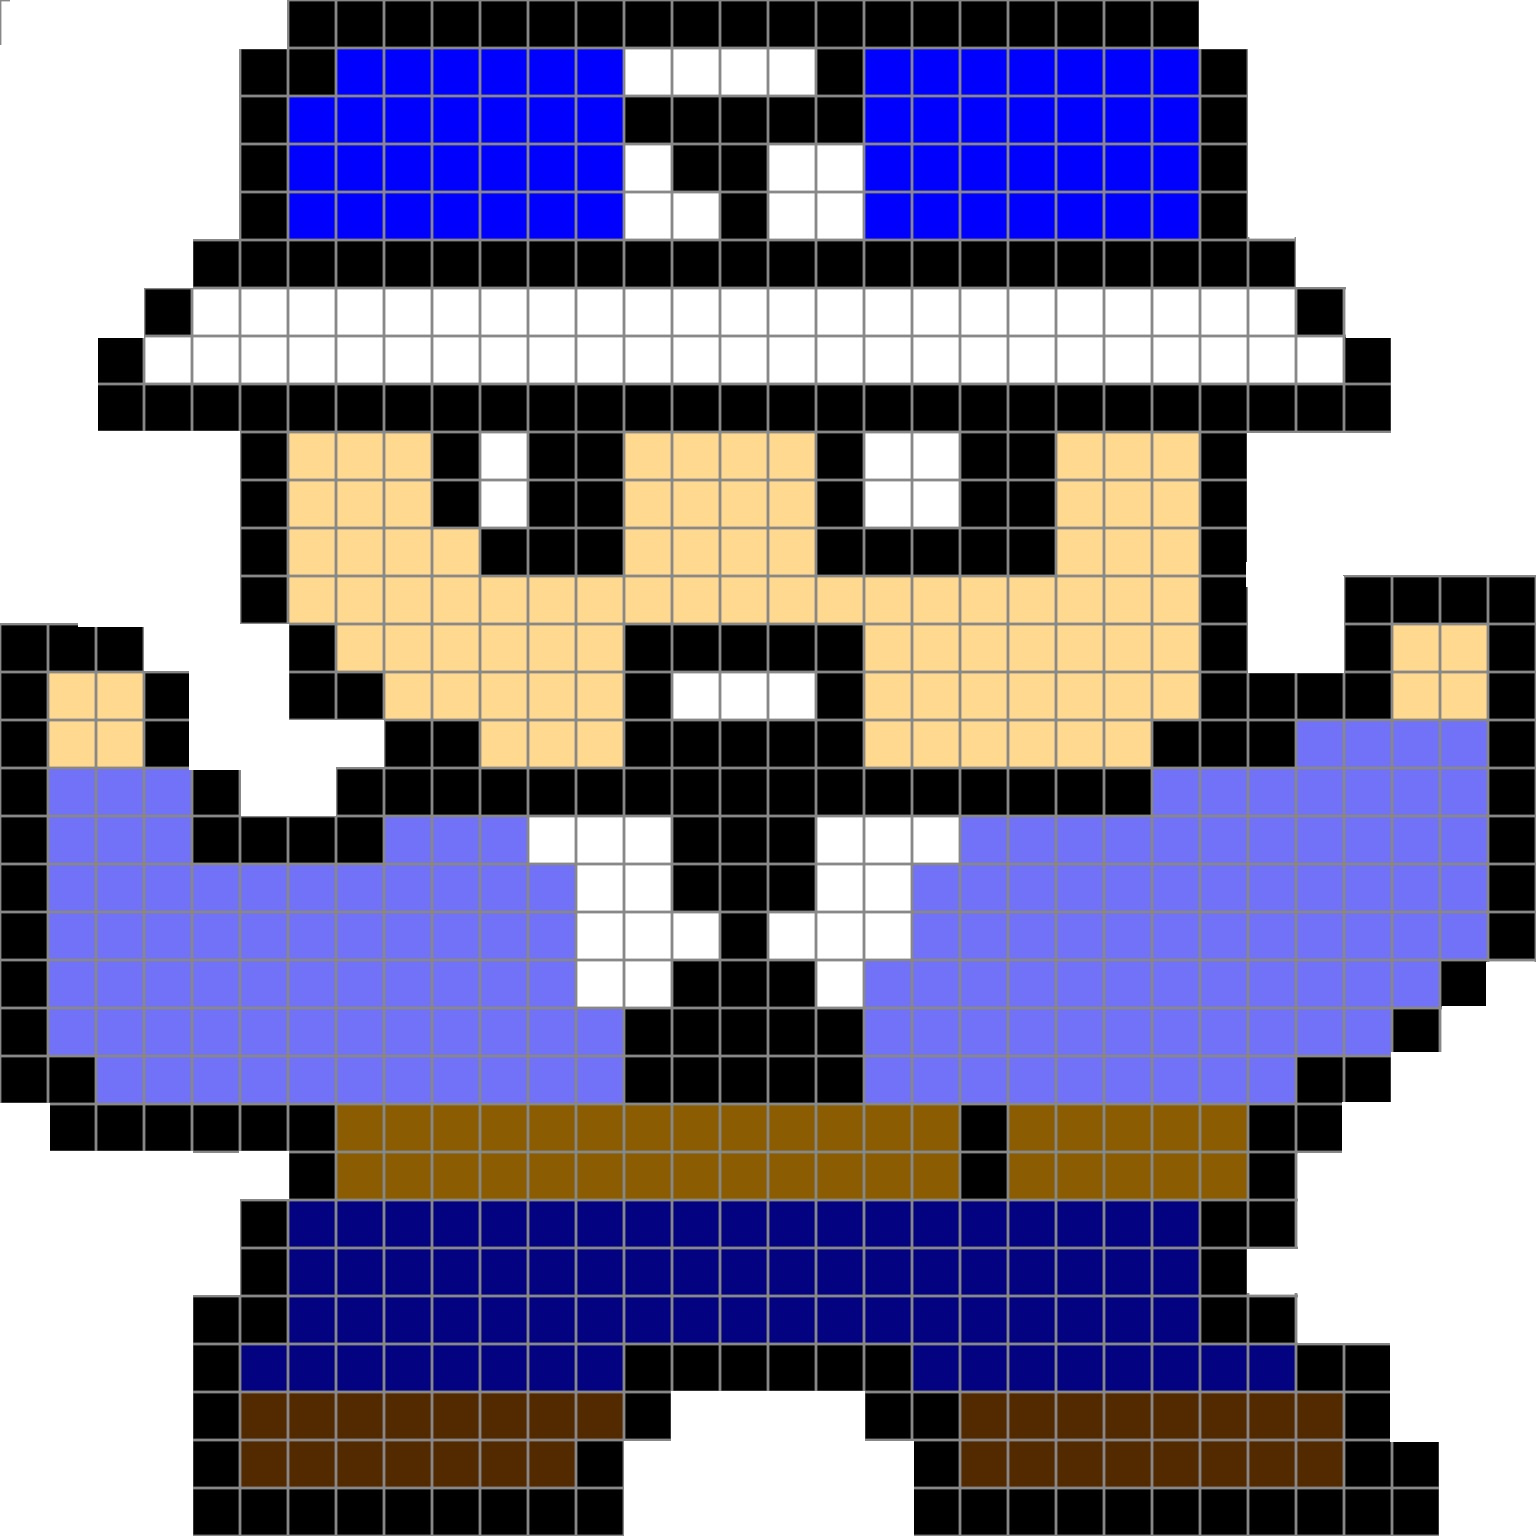
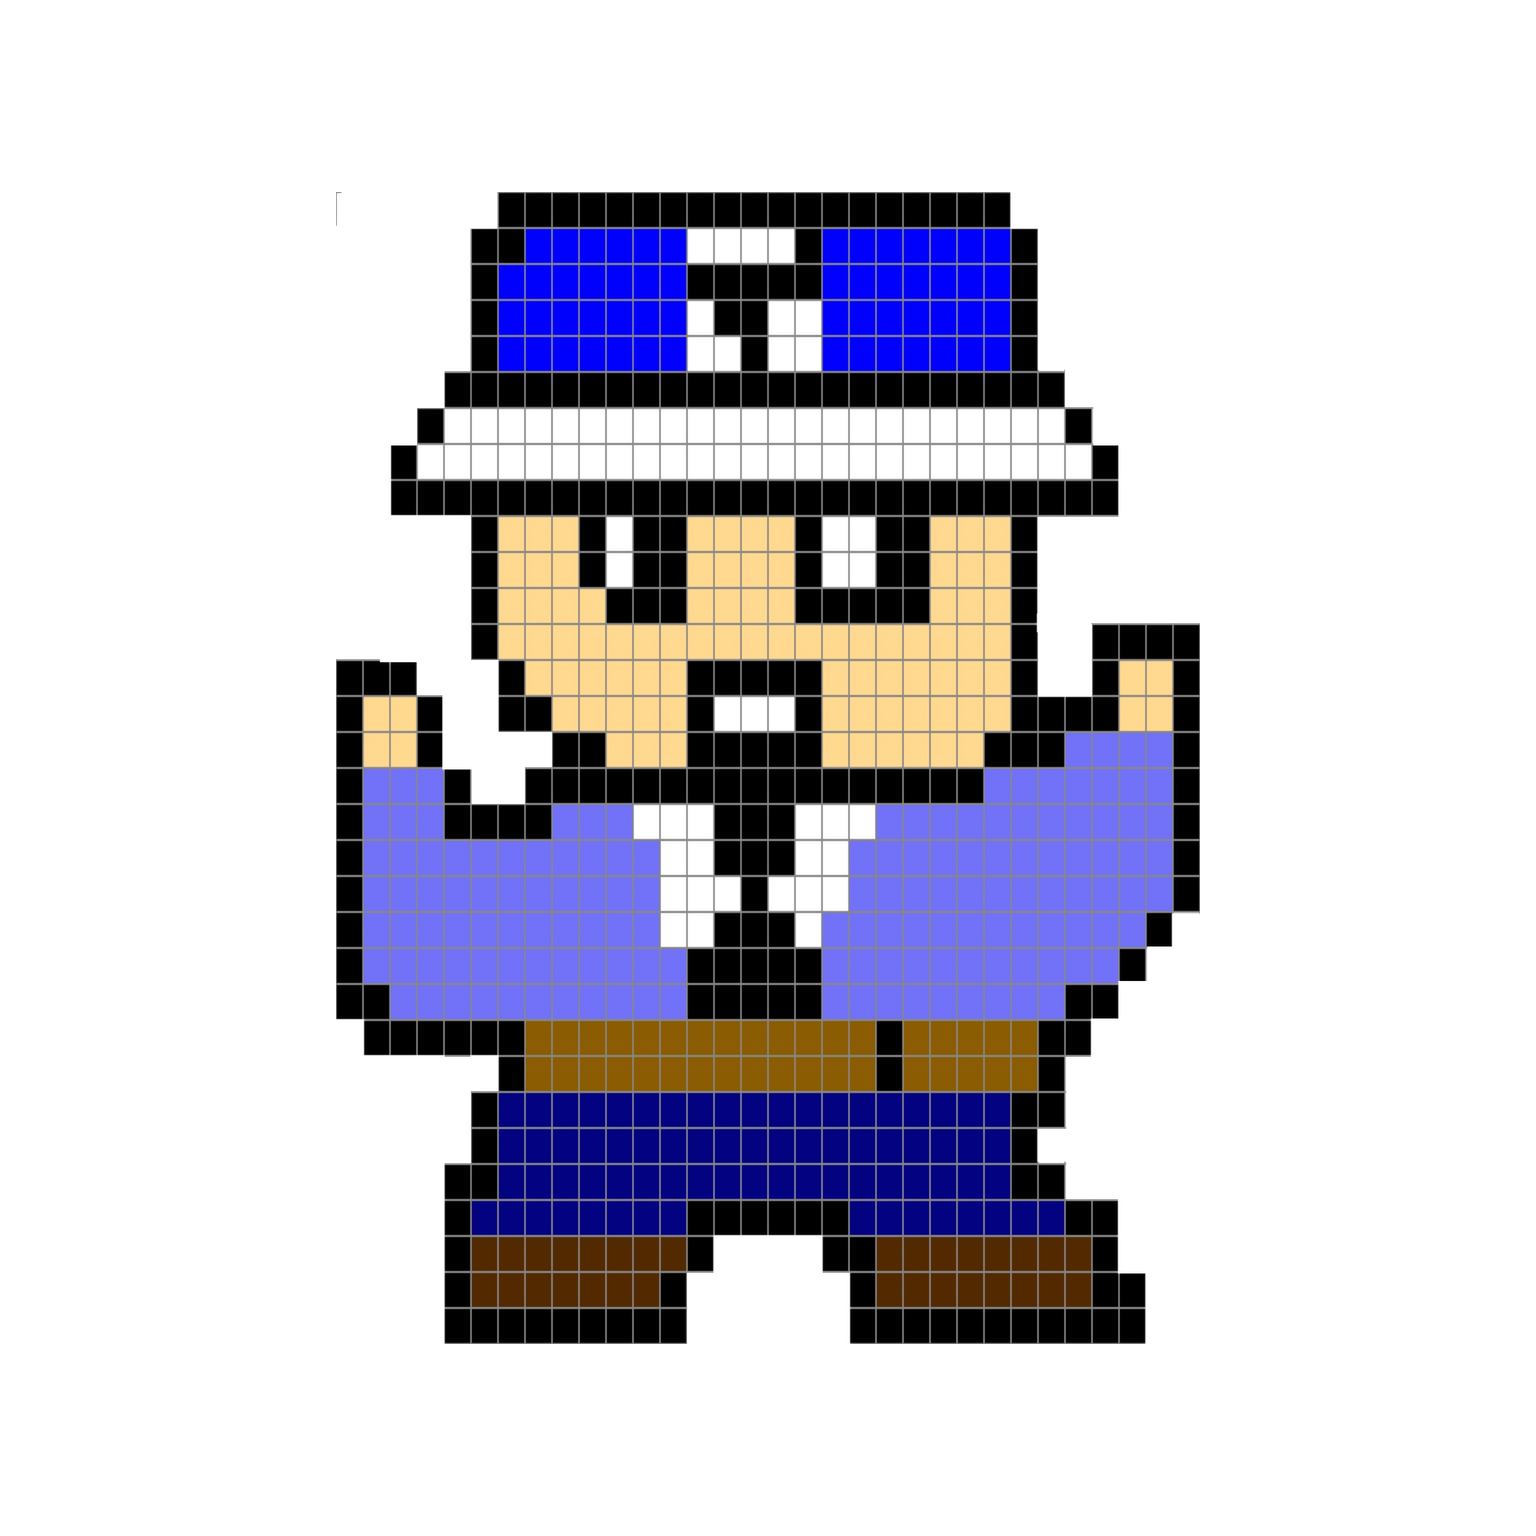
Cleanup, image resizing

diff --git a/src/components/maps/5.js b/src/components/maps/5.js
@@ -7,6 +7,11 @@ export const background = require('../../maps/14.png');
 
 export const character = require('../../mailmain.png')
 
+const mailman = `
+Hello! Hello! Could you please help me? I'm looking for my key. Could you please
+help me find it? If I don't find that key I can't make my delivery!
+`
+
 export const tiles = [
   [ 2, 2, 2, 2, 2, 2, 2, 2, 2, 2, 2, 2, 2, 2, 2, 2 ],
   [ 2, 2, 2, 2, 2, 2, 2, 2, 2, 2, 2, 2, 2, 2, 2, 2 ],
@@ -39,7 +44,7 @@ export const interactions = [
   [ 0, 0, 0, 0, 0, 0, 0, 0, 0, 0, 0, 0, 0, 0, 0, 0 ],
   [ 0, 0, 0, 0, 0, 0, 0, 0, 0, 0, 0, 0, 0, 0, 0, 0 ],
   [ 0, 0, 0, 0, 0, 0, 0, 0, 0, 0, 0, 0, 0, 0, 0, 0 ],
-  [ 0, 0, 0, 0, 0, 0, 0, 0, 0, 0, 0, 0, 0, 0, 0, 0 ],
+  [ 0, 0, 0, 0, 0, 0, 0, mailman, 0, 0, 0, 0, 0, 0, 0, 0 ],
   [ 0, 0, 0, 0, 0, 0, 0, 0, 0, 0, 0, 0, 0, 0, 0, 0 ],
   [ 0, 0, 0, 0, 0, 0, 0, 0, 0, 0, 0, 0, 0, 0, 0, 0 ],
   [ 0, 0, 0, 0, 0, 0, 0, 0, 0, 0, 0, 0, 0, 0, 0, 0 ],

diff --git a/src/components/game.js b/src/components/game.js
@@ -510,7 +510,7 @@ export default class Game extends Component {
         position: 'absolute',
         width: '640px'
       }}>
-        {this.state.justStarted && <Intro opacity={this.state.introOpacity} />}   
+        {this.state.justStarted && <Intro opacity={this.state.introOpacity} />}    
         {this.state.numHearts === 0 && <Gameover restart={this.restart} />}
         <div className="map" style={{
           float: 'left',
@@ -586,12 +586,12 @@ export default class Game extends Component {
           }
         </div>
         <div style={{
-          fontSize: '16px',
+          fontSize: '10px',
           color: 'white',
-          textAlign: 'center',
+          textAlign: 'left',
           width: '650px',
         }}>
-          <ul>
+          <ul style={{ listStyle: 'none' }}>
             {this.state.clues.map((clue, idx) => (
               <li key={idx}>
                 {clue}

diff --git a/src/components/maps/2.js b/src/components/maps/2.js
@@ -6,6 +6,8 @@ export const name = 'map2';
 
 export const background = require('../../maps/8.png');
 
+export const character = require('../../sadLittleFatBoy.png')
+
 const boyWithDog = `
 Hey!! You look smart. Could you please help me? My parents
 just gave me a puppy for my 4th birthday and told me to take

diff --git a/src/components/challenges/PoopInvadersChallenge.js b/src/components/challenges/PoopInvadersChallenge.js
@@ -123,6 +123,10 @@ export default class PoopInvadersChallenge extends Component {
     this.setIntervals()
   }
 
+  componentWillUnmount() {
+    this.cancelIntervals()
+  }
+
   setIntervals() {
     this.setState({
       intervals: [
